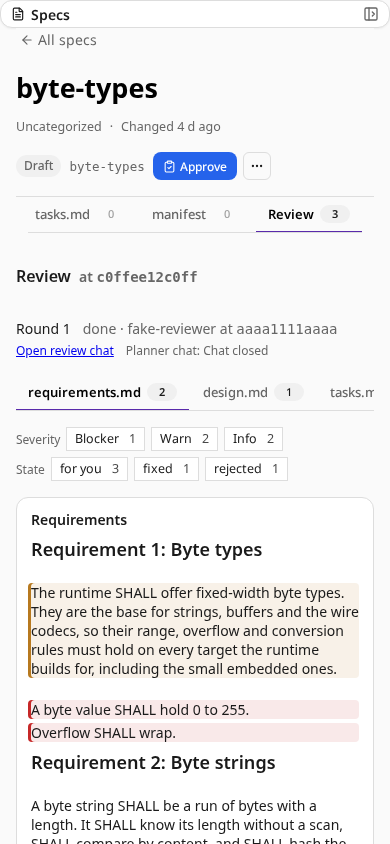
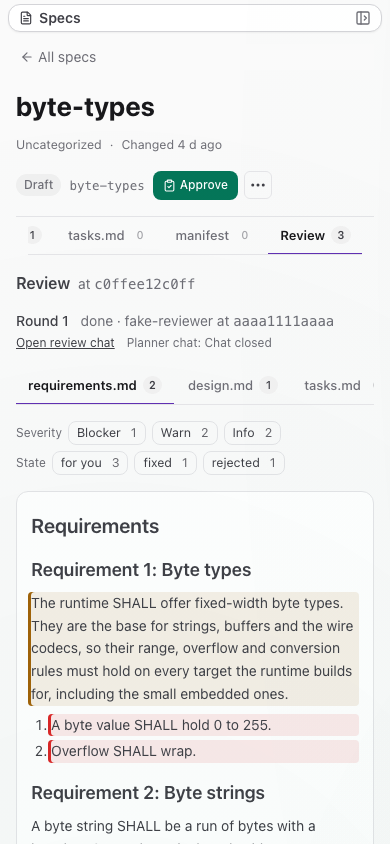
Scroll Specs panes with page keys; keep the review side tab bar (#543)
* Resize the review side column and scroll panes with page keys

* Keep the review side column's tab bar from shrinking

diff --git a/kirocrew-app/ui/src/pane-keys.ts b/kirocrew-app/ui/src/pane-keys.ts
@@ -1,0 +1,59 @@
+// Home, End, Page Up and Page Down scroll the pane under the mouse (a list,
+// a details box, a document, a side column), not the window, when nothing
+// that takes typing has focus. A key a control already handled (a tab bar's
+// Home and End) is left alone. Kept free of JSX so node can test it.
+import { useEffect, type RefObject } from 'react'
+
+const KEYS = new Set(['Home', 'End', 'PageUp', 'PageDown'])
+
+// Where a pane scrolls to for a key, or null for any other key.
+export function paneTop(key: string, top: number, height: number, scrollHeight: number): number | null {
+  const page = Math.max(40, Math.round(height * 0.9))
+  if (key === 'Home') return 0
+  if (key === 'End') return scrollHeight
+  if (key === 'PageDown') return top + page
+  if (key === 'PageUp') return Math.max(0, top - page)
+  return null
+}
+
+export const takesTyping = (el: Element | null) =>
+  Boolean(el && (el.matches('input, textarea, select') || (el as HTMLElement).isContentEditable || el.closest('[contenteditable=""], [contenteditable="true"]')))
+
+// The nearest pane at or above `el`, inside `root`, that scrolls up and down.
+export function scrollPane(el: Element | null, root: Element): HTMLElement | null {
+  for (let at = el; at && root.contains(at); at = at.parentElement) {
+    const style = getComputedStyle(at)
+    if (/(auto|scroll)/.test(style.overflowY) && at.scrollHeight > at.clientHeight + 1) return at as HTMLElement
+    if (at === root) break
+  }
+  return null
+}
+
+export function usePaneKeys(root: RefObject<HTMLElement | null>, on: boolean) {
+  useEffect(() => {
+    if (!on) return
+    let under: Element | null = null
+    const onMove = (event: PointerEvent) => {
+      under = event.target instanceof Element ? event.target : null
+    }
+    const onKey = (event: KeyboardEvent) => {
+      if (!KEYS.has(event.key) || event.defaultPrevented || event.altKey || event.ctrlKey || event.metaKey) return
+      const box = root.current
+      if (!box || !under || !box.contains(under) || takesTyping(document.activeElement)) return
+      const pane = scrollPane(under, box)
+      if (!pane) return
+      const top = paneTop(event.key, pane.scrollTop, pane.clientHeight, pane.scrollHeight)
+      if (top === null) return
+      event.preventDefault()
+      pane.scrollTop = top
+    }
+    window.addEventListener('pointermove', onMove, true)
+    window.addEventListener('pointerover', onMove, true)
+    window.addEventListener('keydown', onKey)
+    return () => {
+      window.removeEventListener('pointermove', onMove, true)
+      window.removeEventListener('pointerover', onMove, true)
+      window.removeEventListener('keydown', onKey)
+    }
+  }, [root, on])
+}

diff --git a/kirocrew-app/ui/src/PlansView.tsx b/kirocrew-app/ui/src/PlansView.tsx
@@ -30,6 +30,7 @@ import { linkHref, safeHref, viewsClient, type Graph } from './views-api.ts'
 import { useSteppedState } from './NavHistory.tsx'
 import { usePhone } from './list-detail.ts'
 import { ListDetailLayout } from './ListDetailLayout.tsx'
+import { usePaneKeys } from './pane-keys.ts'
 import { useDetailTitleRef } from './ListDetail.tsx'
 import { useTitleScrolledOut } from './use-title-scrolled-out.ts'
 import { Modal } from './Modal.tsx'
@@ -1982,6 +1983,9 @@ export default function PlansView(props: {
   // Bumped once the workspace's extra grammars load, so code redraws.
   const [, setGrammars] = useState(0)
   const detailTop = useRef<HTMLDivElement>(null)
+  // Home, End and the page keys scroll the pane under the mouse.
+  const pageRef = useRef<HTMLElement>(null)
+  usePaneKeys(pageRef, !phone)
 
   const attempt = useCallback(async (call: () => Promise<void>) => {
     setBusy(true)
@@ -2397,7 +2401,7 @@ export default function PlansView(props: {
     </>
   ) : null
   return (
-    <section aria-labelledby="avoozl-plans-title" className="flex flex-col gap-3.5">
+    <section ref={pageRef} aria-labelledby="avoozl-plans-title" className="flex flex-col gap-3.5">
       {singleApproval && singleApproval.workspaceId === workspace && (
         <ApproveSpecDialog workspaceId={singleApproval.workspaceId} plan={singleApproval.plan} client={plans} onOpenReview={(planId, rev) => { setSingleApproval(null); openReview(planId, rev) }} onDone={(text) => {
           if (shownWorkspace.current !== singleApproval.workspaceId) return

diff --git a/kirocrew-app/ui/src/Tabs.tsx b/kirocrew-app/ui/src/Tabs.tsx
@@ -57,6 +57,8 @@ export function Tabs<T extends string>(props: {
     props.onPick(next)
     refs.current.get(next)?.focus()
   }
+  // flex: none: in a column that scrolls (the Review side column) a bar
+  // that scrolls sideways would otherwise shrink to nothing.
   return (
     <div
       ref={bar}
@@ -65,7 +67,7 @@ export function Tabs<T extends string>(props: {
       data-tabs={props.id}
       {...(props.barAttr ? { [props.barAttr]: '' } : {})}
       onKeyDown={key}
-      style={{ display: 'flex', width: '100%', gap: 2, borderBottom: '1px solid var(--border)', overflowX: 'auto', scrollbarWidth: 'thin', minWidth: 0 }}
+      style={{ display: 'flex', flex: 'none', width: '100%', gap: 2, borderBottom: '1px solid var(--border)', overflowX: 'auto', scrollbarWidth: 'thin', minWidth: 0 }}
     >
       {props.tabs.map((tab) => {
         const on = tab.key === props.current
